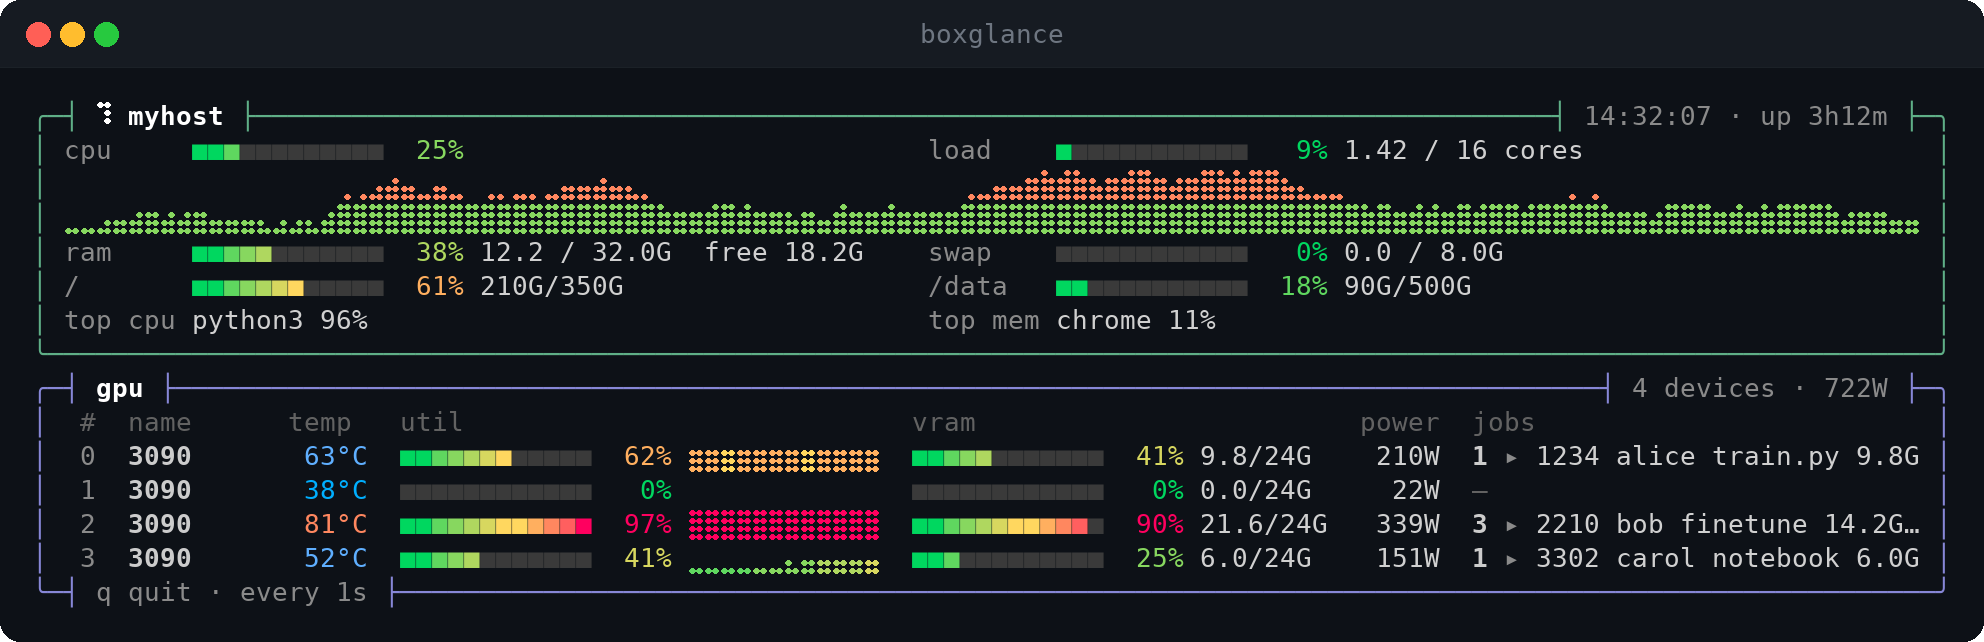
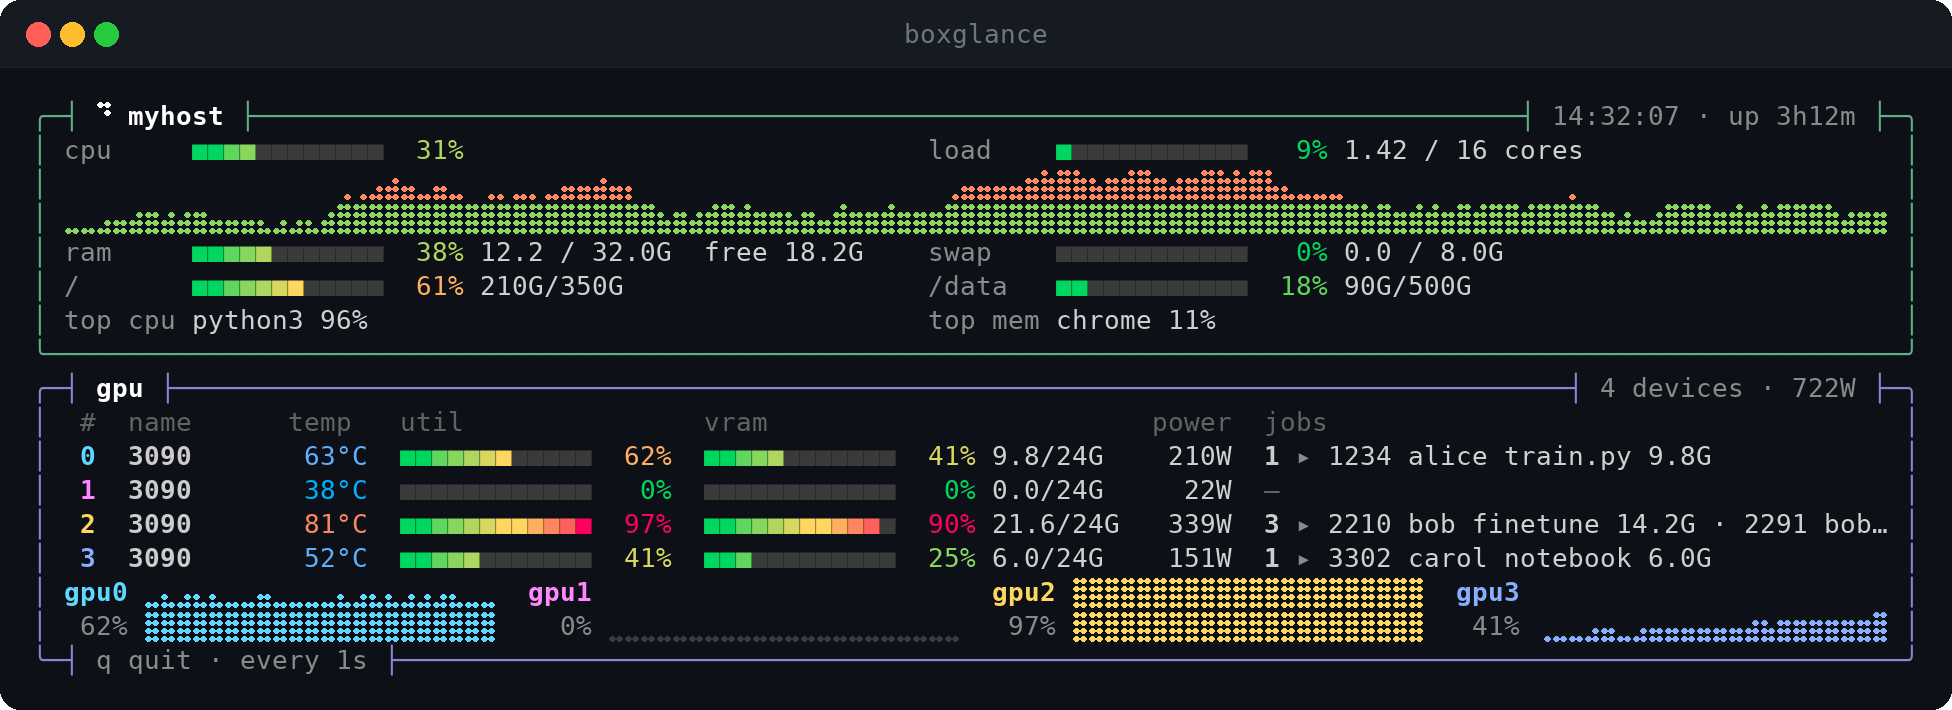
Add a utilization history graph for each GPU in watch mode
- Split the GPU panel's width into one graph pane per GPU, wrapping onto more rows when there are many GPUs
- Give each GPU its own color, used for its graph pane and its number in the table
- Draw a dim baseline under empty graph cells so idle graphs stay visible
- Replace the small per-row GPU graphs, and update the README and screenshot

Changed region(s): [[0.0, 0.1558, 1.0, 0.9657], [0.0, 0.0312, 0.0625, 0.0935], [0.4688, 0.0312, 0.5312, 0.0623]]

diff --git a/README.md b/README.md
@@ -12,7 +12,7 @@ A single-file Bash dashboard that prints CPU, memory, disk, and GPU stats at a g
 - Top CPU and memory consuming processes
 - Per-GPU utilization, temperature, VRAM, power draw, and running compute jobs (NVIDIA only, via `nvidia-smi`)
 - Rounded panels, gradient meters (green → yellow → red), and color-coded temperatures
-- A `--watch` mode that redraws in place, with live braille history graphs for CPU and each GPU (press `q` to quit)
+- A `--watch` mode that redraws in place, with live braille history graphs: one for CPU, and one pane per GPU in that GPU's own color (press `q` to quit)
 - A `--concise` mode that condenses everything onto a single line, for tight spaces like a status bar or a small pane
 - A `--log FILE` mode that appends a CSV row of metrics on every run, and a `--stats FILE` mode that reports the min/max/avg peaks from that CSV — handy for plotting a session afterward
 
